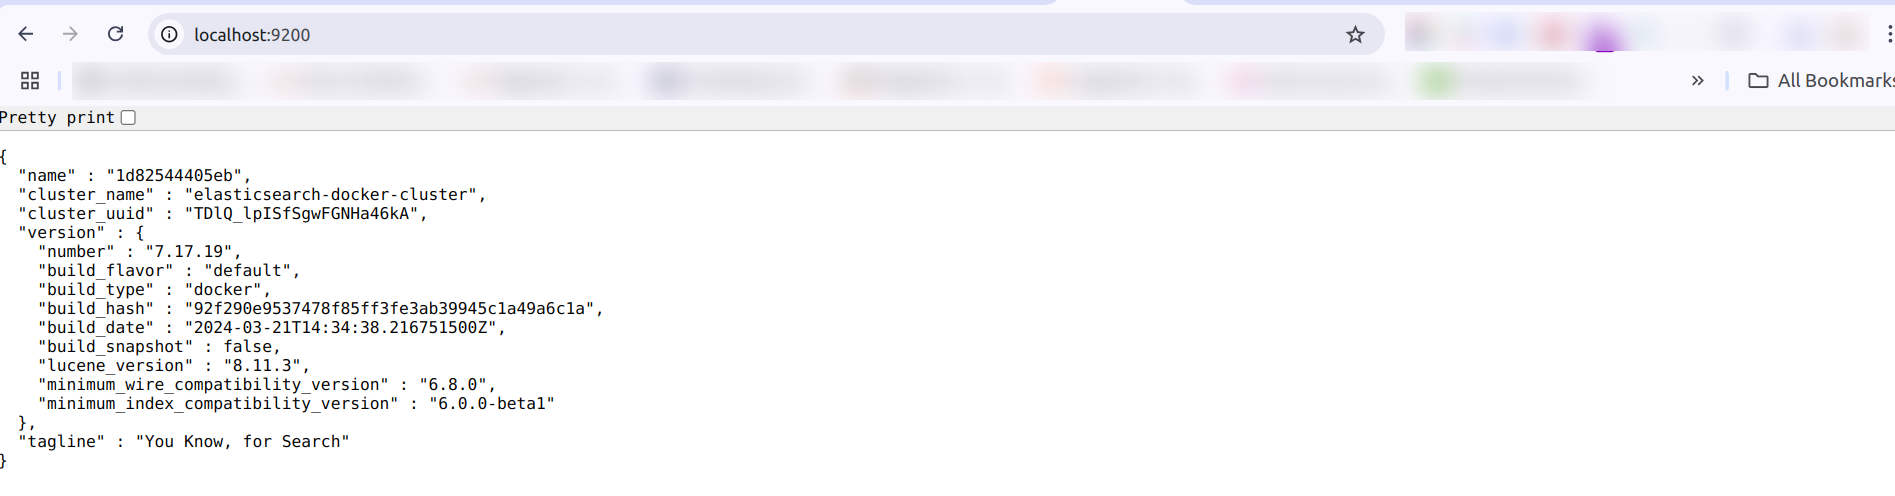
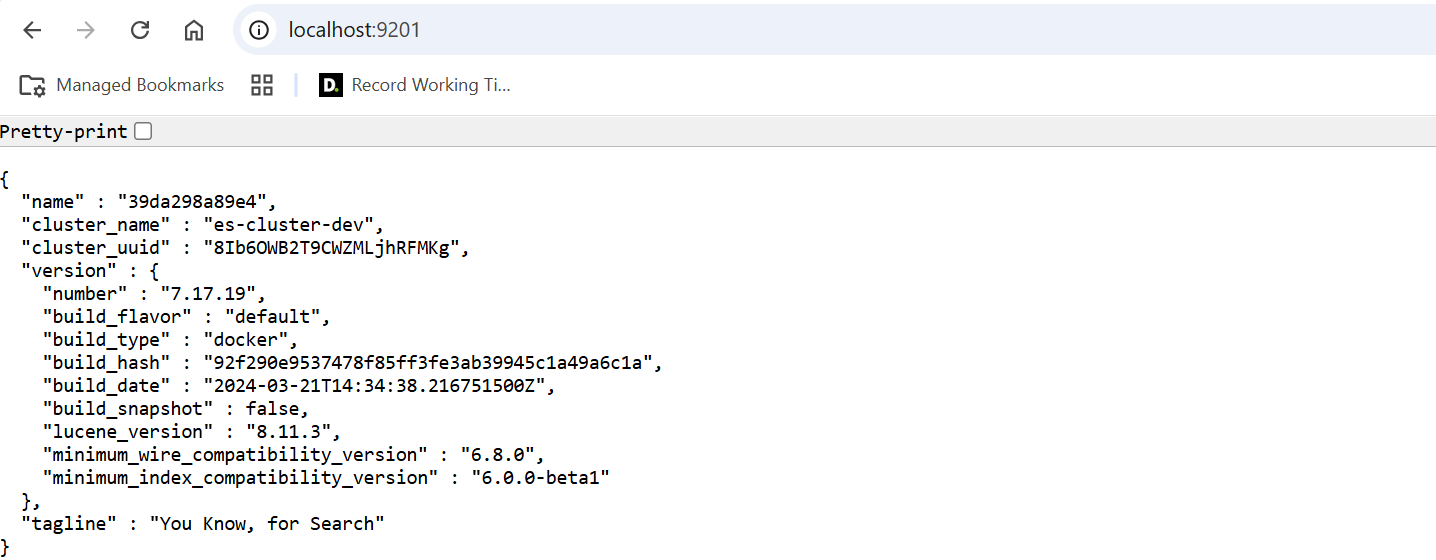
[UPDATE]:php 8.4 support added, opensearch service aaded

diff --git a/README.md b/README.md
@@ -3,7 +3,8 @@ Docker WebServer - Apache, MySQL, and PHP
 
 <sup><code>**Specifically engineered to seamlessly run Magento, the Adobe Commerce platform.</code></sup>
 
-## Supported PHP Versions : 
+## Supported PHP Versions :
+- Php 8.4 
 - Php 8.3
 - Php 8.2
 - Php 8.1
@@ -17,7 +18,8 @@ Docker WebServer - Apache, MySQL, and PHP
 - mariadb                       | Port - 3306:3306
 - phpmyadmin                    | Post - 8081:80
 - varnish                       | Port - 8082:80
-- elasticsearch                 | Port - 9200:9200
+- elasticsearch                 | Port - 9201:9200
+- opensearch                    | Port - 9200:9200
 - mailhog                       | Port - 8025 For UI, Port - 1025 For SMTP Server
 
 ```
@@ -47,6 +49,11 @@ Docker WebServer - Apache, MySQL, and PHP
     - __Usage:__ It is used to improve the performance of web applications by caching static content.
 
 - __Elasticsearch__
+    - __Description:__ A distributed, RESTful search and analytics engine capable of solving a growing number of use cases.
+    - __Ports:__ 9201:9200
+    - __Usage:__ It is used to index and search data for web applications.
+
+- __Opensearch__
     - __Description:__ A distributed, RESTful search and analytics engine capable of solving a growing number of use cases.
     - __Ports:__ 9200:9200
     - __Usage:__ It is used to index and search data for web applications.
@@ -129,10 +136,13 @@ sudo chmod -R 755 .docker/
 
     ![alt text](https://github.com/mdshahbazsid/docker-webserver/blob/main/src/img/docker-mailhog-success.png?raw=true)
     
-- Access **ElasticSearch :** http://localhost:9200/
+- Access **ElasticSearch :** http://localhost:9201/
 
     ![alt text](https://github.com/mdshahbazsid/docker-webserver/blob/main/src/img/docker-elasticsearch-success.png?raw=true)
 
+- Access **OpenSearch :** http://localhost:9200/
+
+    ![alt text](https://github.com/mdshahbazsid/docker-webserver/blob/main/src/img/docker-opensearch-success.png?raw=true)
   
 ## Setup Magento 2
 
